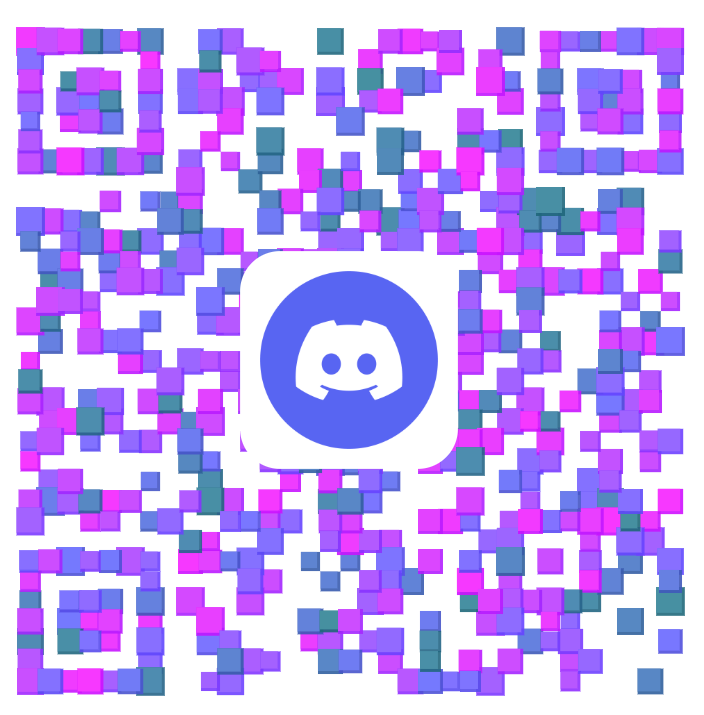
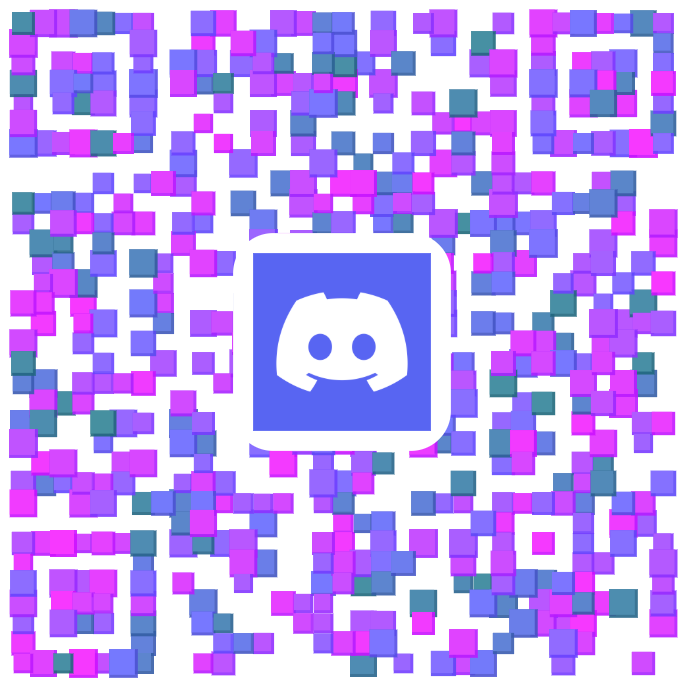
Chore: Modify the link

diff --git a/docs/en/guide/getting-started.md b/docs/en/guide/getting-started.md
@@ -10,7 +10,7 @@ McMai is available on QQ and Discord. **Scan the QR code or tap the button** bel
 | :---: | :---: | :---: |
 | <img src="/QQBot.png" alt="McMai QQ Bot QR Code" width="200" /> | <img src="/Discord.png" alt="McMai Discord Bot QR Code" width="200" /> | <img src="/Discord_Guild.png" alt="McMai Official Discord Server QR Code" width="200" /> |
 | Add the bot as a friend<br>or invite it to a group | Invite the bot to your server<br>or install it as a user app | Join the official server<br>and use it without installing |
-| [🔗 Add](https://qun.qq.com/qunpro/robot/qunshare?robot_appid=102076996&robot_uin=3889001355) | [🔗 Invite](https://discord.com/oauth2/authorize?client_id=1455121113758830763) | [🔗 Join](https://discord.gg/VMGMdsxWCb) |
+| [🔗 Add](https://qun.qq.com/qunpro/robot/qunshare?robot_appid=102076996&robot_uin=3889001355) | [🔗 Invite](https://discord.com/oauth2/authorize?client_id=1455121113758830763) | [🔗 Join](https://discord.gg/fvAU8sTcWz) |
 
 More platforms (Telegram, etc.) will be supported in the future.
 

diff --git a/docs/ja/index.md b/docs/ja/index.md
@@ -40,7 +40,7 @@ features:
 ## コミュニティ
 
 - **QQ グループ**：[1006348059](https://qun.qq.com/universal-share/share?ac=1&authKey=a%2B7GQ%2FsIH%2FMzeTpaTR70%2FdDEvTk4%2Firp8W%2FvL1JvLBtM7AuNog3vs9S7uApshxyL&busi_data=eyJncm91cENvZGUiOiIxMDA2MzQ4MDU5IiwidG9rZW4iOiJnRFhqczMxYlZzQTVSNm9SZ1ZkOU1WNjJobTd4QzdyR3lyS1lwb0JOTlZTYmlSeVU1SnNKV2Z1bTVLYjBvR3BJIiwidWluIjoiMTQ4MTYxODMxOSJ9&data=m-7IeXvdz1a8EKGoCkMeid1DwluG3vH6z1sdNVC641CqCINiRQEE7WY-rowa5ZqB2blPVRLHqmPina6U02PZSw&svctype=4&tempid=h5_group_info)
-- **Discord サーバー**：[参加する](https://discord.gg/VMGMdsxWCb)
+- **Discord サーバー**：[参加する](https://discord.gg/fvAU8sTcWz)
 
 ## 関連リンク
 

diff --git a/docs/index.md b/docs/index.md
@@ -40,7 +40,7 @@ features:
 ## 社区交流
 
 - **QQ 群**：[1006348059](https://qun.qq.com/universal-share/share?ac=1&authKey=a%2B7GQ%2FsIH%2FMzeTpaTR70%2FdDEvTk4%2Firp8W%2FvL1JvLBtM7AuNog3vs9S7uApshxyL&busi_data=eyJncm91cENvZGUiOiIxMDA2MzQ4MDU5IiwidG9rZW4iOiJnRFhqczMxYlZzQTVSNm9SZ1ZkOU1WNjJobTd4QzdyR3lyS1lwb0JOTlZTYmlSeVU1SnNKV2Z1bTVLYjBvR3BJIiwidWluIjoiMTQ4MTYxODMxOSJ9&data=m-7IeXvdz1a8EKGoCkMeid1DwluG3vH6z1sdNVC641CqCINiRQEE7WY-rowa5ZqB2blPVRLHqmPina6U02PZSw&svctype=4&tempid=h5_group_info) 
-- **Discord 服务器**：[点击加入](https://discord.gg/VMGMdsxWCb)
+- **Discord 服务器**：[点击加入](https://discord.gg/fvAU8sTcWz)
 
 ## 友情链接
 

diff --git a/docs/zh-TW/index.md b/docs/zh-TW/index.md
@@ -40,7 +40,7 @@ features:
 ## 社群交流
 
 - **QQ 群**：[1006348059](https://qun.qq.com/universal-share/share?ac=1&authKey=a%2B7GQ%2FsIH%2FMzeTpaTR70%2FdDEvTk4%2Firp8W%2FvL1JvLBtM7AuNog3vs9S7uApshxyL&busi_data=eyJncm91cENvZGUiOiIxMDA2MzQ4MDU5IiwidG9rZW4iOiJnRFhqczMxYlZzQTVSNm9SZ1ZkOU1WNjJobTd4QzdyR3lyS1lwb0JOTlZTYmlSeVU1SnNKV2Z1bTVLYjBvR3BJIiwidWluIjoiMTQ4MTYxODMxOSJ9&data=m-7IeXvdz1a8EKGoCkMeid1DwluG3vH6z1sdNVC641CqCINiRQEE7WY-rowa5ZqB2blPVRLHqmPina6U02PZSw&svctype=4&tempid=h5_group_info)
-- **Discord 伺服器**：[點擊加入](https://discord.gg/VMGMdsxWCb)
+- **Discord 伺服器**：[點擊加入](https://discord.gg/fvAU8sTcWz)
 
 ## 友情連結
 

diff --git a/docs/en/index.md b/docs/en/index.md
@@ -40,7 +40,7 @@ features:
 ## Community
 
 - **QQ Group**: [1006348059](https://qun.qq.com/universal-share/share?ac=1&authKey=a%2B7GQ%2FsIH%2FMzeTpaTR70%2FdDEvTk4%2Firp8W%2FvL1JvLBtM7AuNog3vs9S7uApshxyL&busi_data=eyJncm91cENvZGUiOiIxMDA2MzQ4MDU5IiwidG9rZW4iOiJnRFhqczMxYlZzQTVSNm9SZ1ZkOU1WNjJobTd4QzdyR3lyS1lwb0JOTlZTYmlSeVU1SnNKV2Z1bTVLYjBvR3BJIiwidWluIjoiMTQ4MTYxODMxOSJ9&data=m-7IeXvdz1a8EKGoCkMeid1DwluG3vH6z1sdNVC641CqCINiRQEE7WY-rowa5ZqB2blPVRLHqmPina6U02PZSw&svctype=4&tempid=h5_group_info)
-- **Discord Server**: [Join](https://discord.gg/VMGMdsxWCb)
+- **Discord Server**: [Join](https://discord.gg/fvAU8sTcWz)
 
 ## Friend Links
 
